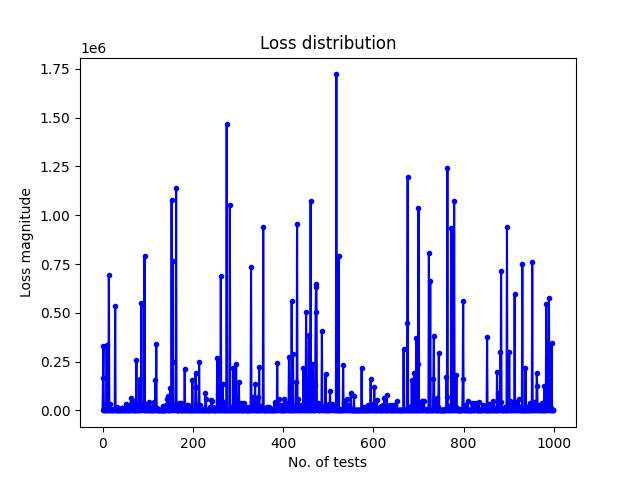
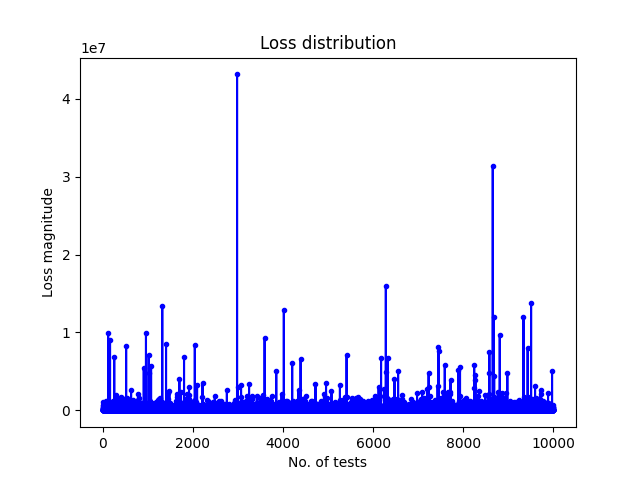
minor fixes

diff --git a/distros/cyberrisk_sim_multi.py b/distros/cyberrisk_sim_multi.py
@@ -7,28 +7,28 @@
 #
 # Existing or planned security controls compensating P(TE) in %
 # 
-# Number of simulations: i.e. 1000
+# Number of simulations: i.e. 10000
 #
 # Presumed risk tolerance with the following distribution:
-#    50 000 EUR - 90%
-#   250 000 EUR - 50%
-#   500 000 EUR - 20%
-#   750 000 EUR -  5%
-# 1 000 000 EUR -  1%
-# 5 000 000 EUR -  0.1%
+#    100 000 EUR - 90%
+#    250 000 EUR - 50%
+#    500 000 EUR - 30%
+#    750 000 EUR - 15%
+#  1 000 000 EUR -  2%
+# 10 000 000 EUR -  0.2%
 ########################################################################
 
 # list of security events [probability, lower bound loss, upper bound loss, description]
 events = {
-    "event1": (0.11, 100000, 400000, "Successful DDoS on the cloud base core app"),
+    "event1": (0.21, 100000, 550000, "Successful DDoS on the cloud base core app"),
     "event2": (0.08, 500000, 1500000, "Sensitive data exfiltration"),
-    "event3": (0.03, 200000, 1000000, "Malicious code injected into production pipeline"),
-    "event4": (0.2, 10000, 100000, "Laptop with sensitive data lost/stolen"),
-    "event5": (0.12, 15000, 50000, "Malicious code in 3rd party dependencies"),
+    "event3": (0.15, 200000, 1000000, "Malicious code injected into production pipeline"),
+    "event4": (0.38, 10000, 100000, "Laptop with sensitive data lost/stolen"),
+    "event5": (0.17, 15000, 50000, "Malicious code in 3rd party dependencies"),
     "event6": (0.15, 1000, 150000, "Broken backups"),
-    "event7": (0.01, 1000000, 12000000, "Malware attack, knocked out internal network"),
+    "event7": (0.04, 1000000, 12000000, "Malware attack, knocked out internal network"),
     "event8": (0.05, 10000, 500000, "Insider's threat"),
-    "event9": (0.01, 100000, 500000, "Terrorist attack"),
+    "event9": (0.03, 100000, 11500000, "Terrorist attack"),
     "event10": (0.25, 5000, 50000, "Broken app release")
 }
 
@@ -36,30 +36,30 @@ events = {
 sec_controls = {
     "event1": (70000, 0.65),
     "event2": (200000, 0.55),
-    "event3": (250000, 0.7),
-    "event4": (30000, 0.7),
-    "event5": (25000, 0.4),
-    "event6": (100000, 0.9),
-    "event7": (800000, 0.85),
-    "event8": (250000, 0.5),
-    "event9": (300000, 0.6),
+    "event3": (77000, 0.7),
+    "event4": (30000, 0.37),
+    "event5": (25000, 0.42),
+    "event6": (100000, 0.62),
+    "event7": (230000, 0.85),
+    "event8": (121000, 0.47),
+    "event9": (130000, 0.6),
     "event10": (25000, 0.45)
 }
 
 # defined risk tolerance
 risk_tolerance = [
     (100000, 90), 
-    (250000, 80), 
-    (500000, 40), 
+    (250000, 50), 
+    (500000, 30), 
     (750000, 15), 
     (1000000, 2), 
-    (10000000, 0.1)
+    (10000000, 0.2)
 ]
 
 # simulation parameters
 
 STEP = 5000
-NO_SIMULATIONS = 1000
+NO_SIMULATIONS = 10000
 
 
 ### computing functions
@@ -121,7 +121,7 @@ def loss_average(lst):
     loss_ave = round(accu/len(lst), 2)
     return loss_ave
 
-def draw_loss_distribution(lst, fig_name):
+def plot_loss_distribution(lst, fig_name):
     ax = 0
     losses_series = 0
     losses_series = pd.Series(lst)
@@ -133,12 +133,11 @@ def draw_loss_distribution(lst, fig_name):
     ax.cla()
     plt.close()
 
-
 def loss_exceedance_curve(lst, STEP):
     loss_ex_lst = []
     losses_count = 0
-#    for loss in lst:
-#        if loss > 0: losses_count += 1
+    for loss in lst:
+        if loss > 0: losses_count += 1
     for x in range(0,5000000,STEP):
         accu = 0
         for loss in lst:
@@ -147,7 +146,7 @@ def loss_exceedance_curve(lst, STEP):
         loss_ex_lst.append([x,round(accu/len(lst),2)*100])
     return loss_ex_lst
 
-def draw_loss_exceedance(lst, lst_for_risk_tolerance, fig_name):
+def plot_loss_exceedance(lst, lst_for_risk_tolerance, fig_name):
     fig, ax = plt.subplots()
     for item in [lst, lst_for_risk_tolerance]:
         x = []
@@ -163,22 +162,30 @@ def draw_loss_exceedance(lst, lst_for_risk_tolerance, fig_name):
     fig.savefig(fig_name)
     fig.clear()
 
+def total_sec_investments(sec_controls):
+    controls_keys = sec_controls.keys()
+    total_sum = 0
+    for each_key in controls_keys:
+        total_sum += sec_controls[each_key][0]
+    return total_sum
+
 # run
 
 losses_no_ctrls = loss_distribution(events, NO_SIMULATIONS)
 losses_with_ctrls = loss_distribution_reduced(events, sec_controls, NO_SIMULATIONS)
 
-# draw loss distribution without security controls in place
-draw_loss_distribution(losses_no_ctrls, 'Fig-1.png')
+# plot loss distribution without security controls in place
+plot_loss_distribution(losses_no_ctrls, 'Fig-1.png')
 
-# draw loss distribution with security controls in place
-draw_loss_distribution(losses_with_ctrls, 'Fig-2.png')
+# plot loss distribution with security controls in place
+plot_loss_distribution(losses_with_ctrls, 'Fig-2.png')
 
 print("Average loss: {:,.2f} EUR with no controls in place".format(loss_average(losses_no_ctrls)))
 print("Average loss: {:,.2f} EUR with controls in place".format(loss_average(losses_with_ctrls)))
+print("Total security investments: {:,.2f} EUR: ".format(total_sec_investments(sec_controls)))
 
-# draw loss esceedance curve without security controls in place
-draw_loss_exceedance(loss_exceedance_curve(losses_no_ctrls, STEP), risk_tolerance, "Fig-3.png")
+# plot loss exceedance curve without security controls in place
+plot_loss_exceedance(loss_exceedance_curve(losses_no_ctrls, STEP), risk_tolerance, "Fig-3.png")
 
-# draw loss esceedance curve with security controls in place
-draw_loss_exceedance(loss_exceedance_curve(losses_with_ctrls, STEP), risk_tolerance, "Fig-4.png")
+# plot loss exceedance curve with security controls in place
+plot_loss_exceedance(loss_exceedance_curve(losses_with_ctrls, STEP), risk_tolerance, "Fig-4.png")
